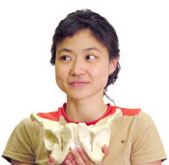
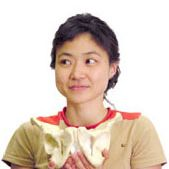
Modified img dimensions. Added event time.

diff --git a/event.html b/event.html
@@ -61,12 +61,13 @@
     <div class="row">
       <div class="col-md-12">
         <div class="text-center">
-          <h1>Welcome to INA2023!
+          <h1>Welcome to INA 2023!
 			<!-- TEMPORARILY DISABLED UNTIL WINNERS ARE ANNOUNCED -->
 			<!-- <br>&mdash;<br><small>Team Melionaire - Project Dollar Dollar<br>Winner of the 2022 INA Award</small>
 						<br>&mdash;<br>
 						<small>Team Cerberus - Project Soteria<br>People's Choice Award</small> -->
 					</h1>
+					<h3>Join us in the Smith Learning Theater<br><br>Friday, April 14 from 5:30 - 7:30pm.</h3>
         </div>
       </div>
     </div>
@@ -181,15 +182,15 @@
 		<div class="row">
 			<div class="col-sm-4">
 				<img class="judge-img" src="./assets/INA2023/ykc2110.jpg" alt="Yoo Kyung Chang">
-				<p><strong>Yoo Kyung Chang</strong><br>Senior Lecturer</p>
+				<p><strong>Dr. Yoo Kyung Chang</strong></p>
 			</div>
 			<div class="col-sm-4">
 				<img class="judge-img" src="./assets/INA2023/JPortrait.png" alt="Jin Kuwata">
-				<p><strong>Jin Kuwata</strong><br>Coordinator: Computing in Education Program</p>
+				<p><strong>Dr. Jin Kuwata</strong></p>
 			</div>
 			<div class="col-sm-4">
 				<img class="judge-img" src="./assets/INA2023/jlee.png" alt="Joey Lee">
-				<p><strong>Joey Lee</strong><br>Director of Games Research Lab</p>
+				<p><strong>Dr. Joey Lee</strong></p>
 			</div>
 		</div>
 	</div>
